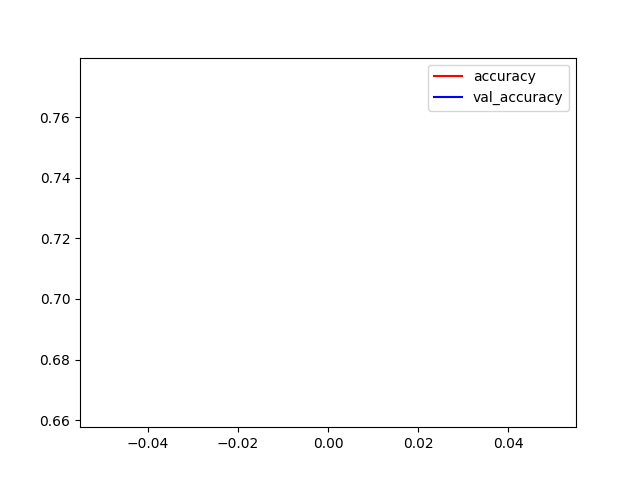
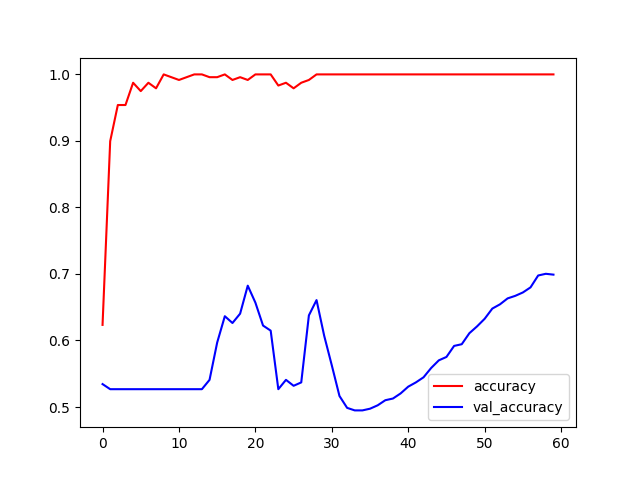
alteracoes nos parametros

diff --git a/cnn_xception.py b/cnn_xception.py
@@ -22,16 +22,17 @@ epochs = 1
 
 # Caminhos
 train_dir = 'train'
+trainrotated_dir = 'trainrotated'
 test_dir = 'test'
 
 # Geradores de dados
-
-
 def create_generators(with_augmentation=True):
     if with_augmentation:
         train_datagen = ImageDataGenerator(
-            preprocessing_function=preprocess_input,
-            rotation_range=90
+            preprocessing_function=preprocess_input#,
+            #horizontal_flip=True,
+            #vertical_flip=True,
+            #rotation_range=90
         )
     else:
         train_datagen = ImageDataGenerator(
@@ -39,7 +40,7 @@ def create_generators(with_augmentation=True):
     test_datagen = ImageDataGenerator(preprocessing_function=preprocess_input)
 
     train_generator = train_datagen.flow_from_directory(
-        train_dir,
+        train_dir if not with_augmentation else trainrotated_dir,
         target_size=(img_height, img_width),
         batch_size=batch_size,
         class_mode='binary'

diff --git a/vals.py b/vals.py
@@ -49,7 +49,7 @@ def printresultados(augmentation, test_generator, history):
     plt.show()
 
 
-epochs = 1
+epochs = 60
 batch_size = 48
 
 # Sem augmentation
@@ -74,5 +74,4 @@ history = model.fit(
     verbose=1
 )
 test_loss, test_acc, _, _ = model.evaluate(test_generator)
-print(f"Acurácia com augmentation: {test_acc * 100}%")
 printresultados(True, test_generator, history)
